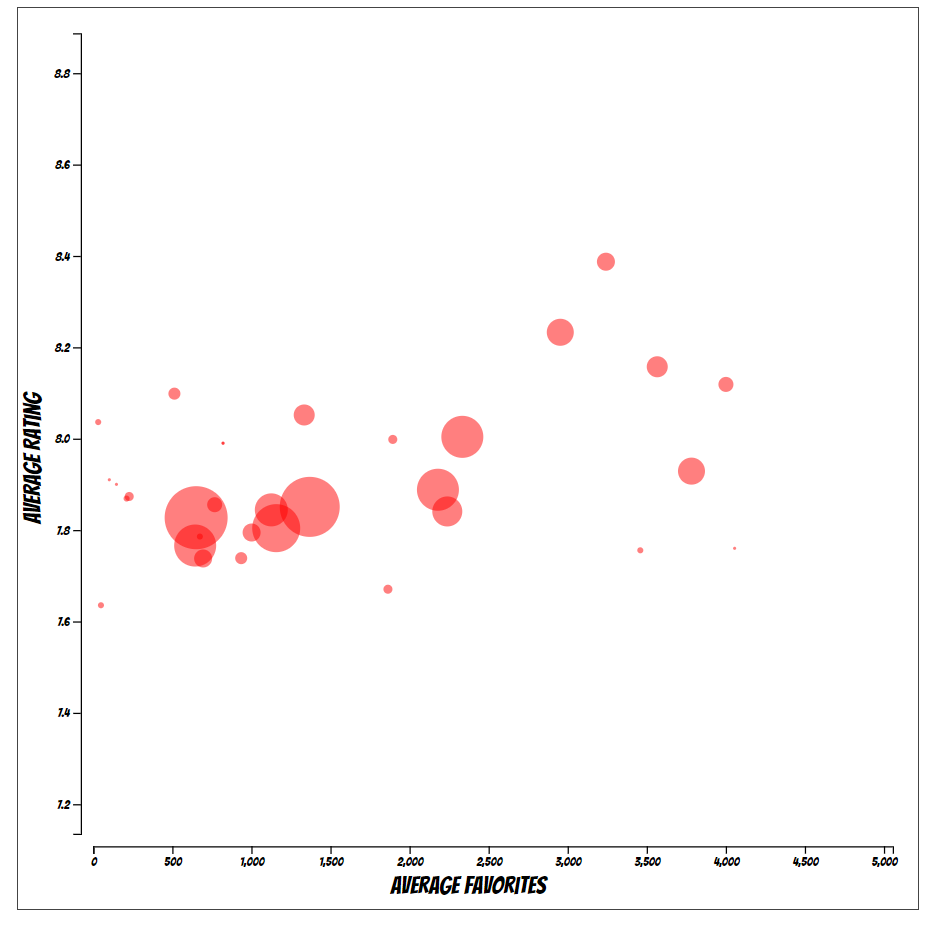
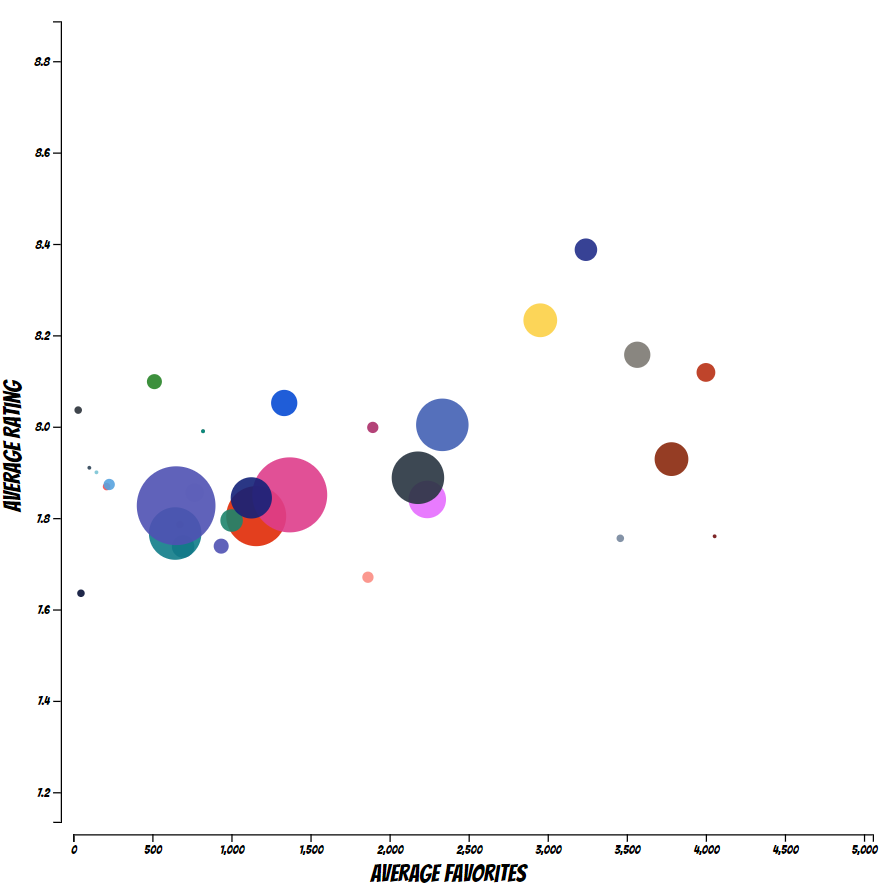
add the color set of anime genres

diff --git a/js/temporal_graph.js b/js/temporal_graph.js
@@ -1,3 +1,46 @@
+genre_color_set = {
+    'Action': 'rgba(224,42,5,1.0)',
+    'Adventure': 'rgba(67,97,180,1.0)',
+    'Cars': 'rgba(121,195,212,1.0)',
+    'Comedy': 'rgba(79,81,178,1.0)',
+    'Dementia': 'rgba(0,139,44,1.0)',
+    'Demons': 'rgba(46,66,86,1.0)',
+    'Drama': 'rgba(222,61,139,1.0)',
+    'Fantasy': 'rgba(40,52,64,1.0)',
+    'Game': 'rgba(0,141,128,1.0)',
+    'Harem': 'rgba(223,27,91,1.0)',
+    'Historical': 'rgba(184,48,20,1.0)',
+    'Horror': 'rgba(119,135,157,1.0)',
+    'Josei': 'rgba(172,47,105,1.0)',
+    'Kids': 'rgba(245,186,16,1.0)',
+    'Magic': 'rgba(79,81,178,1.0)',
+    'Martial Arts': 'rgba(228,82,32,1.0)',
+    'Mecha': 'rgba(7,75,212,1.0)',
+    'Military': 'rgba(29,132,108,1.0)',
+    'Music': 'rgba(103,103,202,1.0)',
+    'Mystery': 'rgba(124,121,114,1.0)',
+    'Parody': 'rgba(245,75,75,1.0)',
+    'Police': 'rgba(42,49,57,1.0)',
+    'Psychological': 'rgba(236,237,241,1.0)',
+    'Romance': 'rgba(229,109,254,1.0)',
+    'Samurai': 'rgba(164,23,26,1.0)',
+    'School': 'rgba(251,141,131,1.0)',
+    'Sci-Fi': 'rgba(19,33,120,1.0)',
+    'Seinen': 'rgba(33,46,137,1.0)',
+    'Shoujo': 'rgba(88,163,223,1.0)',
+    'Shoujo Ai': 'rgba(255,180,194,1.0)',
+    'Shounen': 'rgba(15,124,136,1.0)',
+    'Shounen Ai': 'rgba(172,215,221,1.0)',
+    'Slice of Life': 'rgba(252,208,70,1.0)',
+    'Space': 'rgba(7,17,54,1.0)',
+    'Sports': 'rgba(40,132,40,1.0)',
+    'Super Power': 'rgba(37,86,133,1.0)',
+    'Supernatural': 'rgba(138,40,12,1.0)',
+    'Thriller': 'rgba(96,93,84,1.0)',
+    'Vampire': 'rgba(112,14,16,1.0)',
+    '\xa0Adventure': 'rgba(67,97,180,1.0)'
+};
+
 var ctx = {
     w: 720,
     h: 720,
@@ -66,16 +109,16 @@ var initSVGcanvas = function(genre_by_year) {
 var populateSVGcanvas = function(genre_by_year) {
     var group = d3.select("#rootG");
     genres_current_year = genre_by_year[ctx.current_year];
-    console.log(genres_current_year);
+    // console.log(genres_current_year);
     Object.keys(genres_current_year).forEach((genre) => {
-
+        color_str = genre_color_set[genre].replace("1.0", "0.9");
         group
             .append("circle")
             .attr("class", "genre_label")
             .attr("cx", ctx.xScale(genres_current_year[genre]['average_favorite']))
             .attr("cy", ctx.yScale(genres_current_year[genre]['average_score']))
-            .attr("r", 1.2 * genres_current_year[genre]['animes'].length)
-            .attr("fill", "rgba(255,0,0, 0.5)");
+            .attr("r", 1.5 * genres_current_year[genre]['animes'].length)
+            .attr("fill", color_str);
     });
 
 
@@ -95,6 +138,7 @@ var loadData = function() {
     d3.json("./data/genre_by_year.json").then(function(data) {
         // console.log(data);
         ctx.DATA.genre_by_year = data;
+        console.log(genre_color_set);
         console.log(ctx.DATA.genre_by_year[ctx.current_year]);
         initSVGcanvas(data);
         populateSVGcanvas(data);
